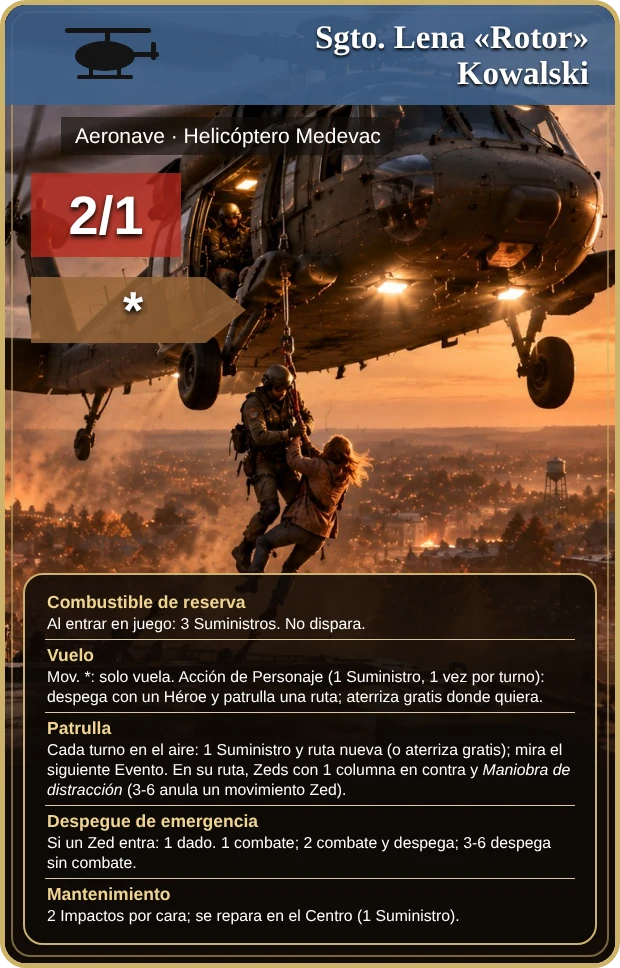
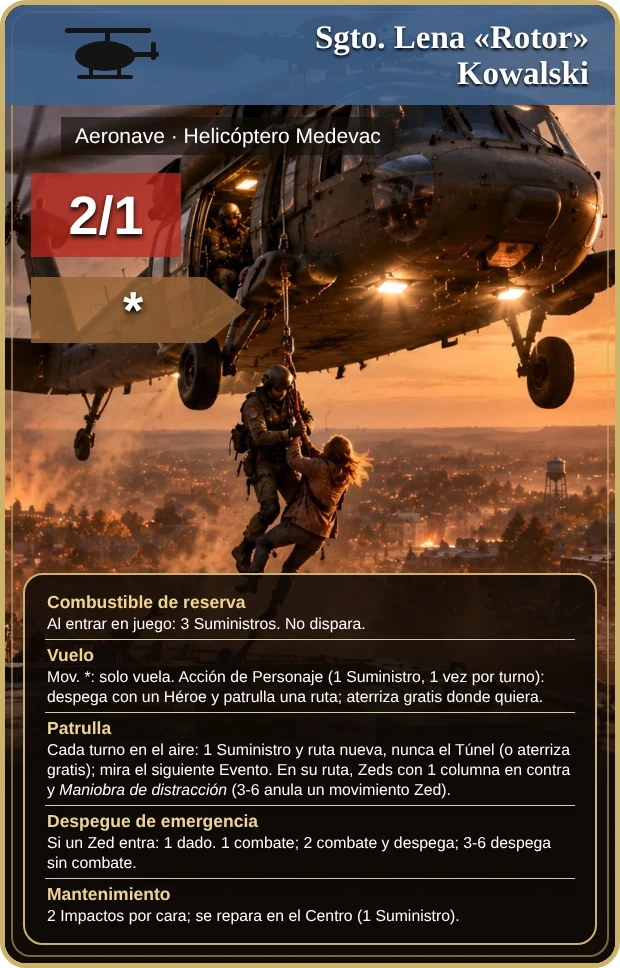
Carta del Helicóptero: la Patrulla indica que nunca es el Túnel
Claude-Session: https://claude.ai/code/session_01KmRiLam16qxK6v4ebdfK1d

Changed region(s): [[0.0613, 0.7438, 0.9194, 0.8368]]

diff --git a/sw.js b/sw.js
@@ -1,7 +1,7 @@
 /* Service worker: permite instalar la web como app y jugar sin conexión.
    Código (html/js/css): red primero, con copia local de reserva. Imágenes y audio: caché primero. */
 'use strict';
-const CACHE = 'doz3-v66';
+const CACHE = 'doz3-v67';
 const SHELL = ['./', 'index.html', 'style.css', 'manifest.webmanifest', 'icons/icon-192.png', 'icons/icon-512.png', 'assets/portada.jpg', 'assets/fondo_nueva.webp', 'assets/fondo_ranking.webp',
   'js/version.js', 'js/data.js', 'js/events.js', 'js/dest.js', 'js/evlog.js', 'js/preview.js', 'js/obituario.js', 'js/engine.js', 'js/game.js', 'js/phases.js', 'js/actions.js', 'js/cardtext.js', 'js/ui.js', 'js/anim.js',
   'js/expansions.js', 'js/expansions2.js', 'js/sfx.js', 'js/sound.js', 'js/opciones.js', 'js/voz.js', 'js/ost.js', 'assets/sonidos/letras/letras.js', 'assets/sonidos/efectos/sfx_disparo.mp3', 'assets/sonidos/efectos/sfx_disparo_largo.mp3', 'js/mapzoom.js', 'js/seedcode.js', 'js/save.js', 'js/main.js', 'js/bot.js'];

diff --git a/js/version.js b/js/version.js
@@ -1,2 +1,2 @@
 /* Fecha y hora de la última build (hora de Madrid). Se actualiza con cada cambio publicado. */
-const BUILD_TIME = '2026-11-01 06:10';
+const BUILD_TIME = '2026-11-01 06:25';

diff --git a/CHANGELOG.md b/CHANGELOG.md
@@ -2,6 +2,11 @@
 
 Registro de cambios por publicación (push a `main`). Lo más reciente, arriba. Cada entrada lleva la misma fecha y hora que `BUILD_TIME` de `js/version.js`.
 
+## 2026-11-01 06:25
+
+### Cambios
+- **Carta del Helicóptero Medevac:** la Patrulla indica ahora «nunca el Túnel», igual que las reglas del juego.
+
 ## 2026-11-01 06:10
 
 ### Fixes
